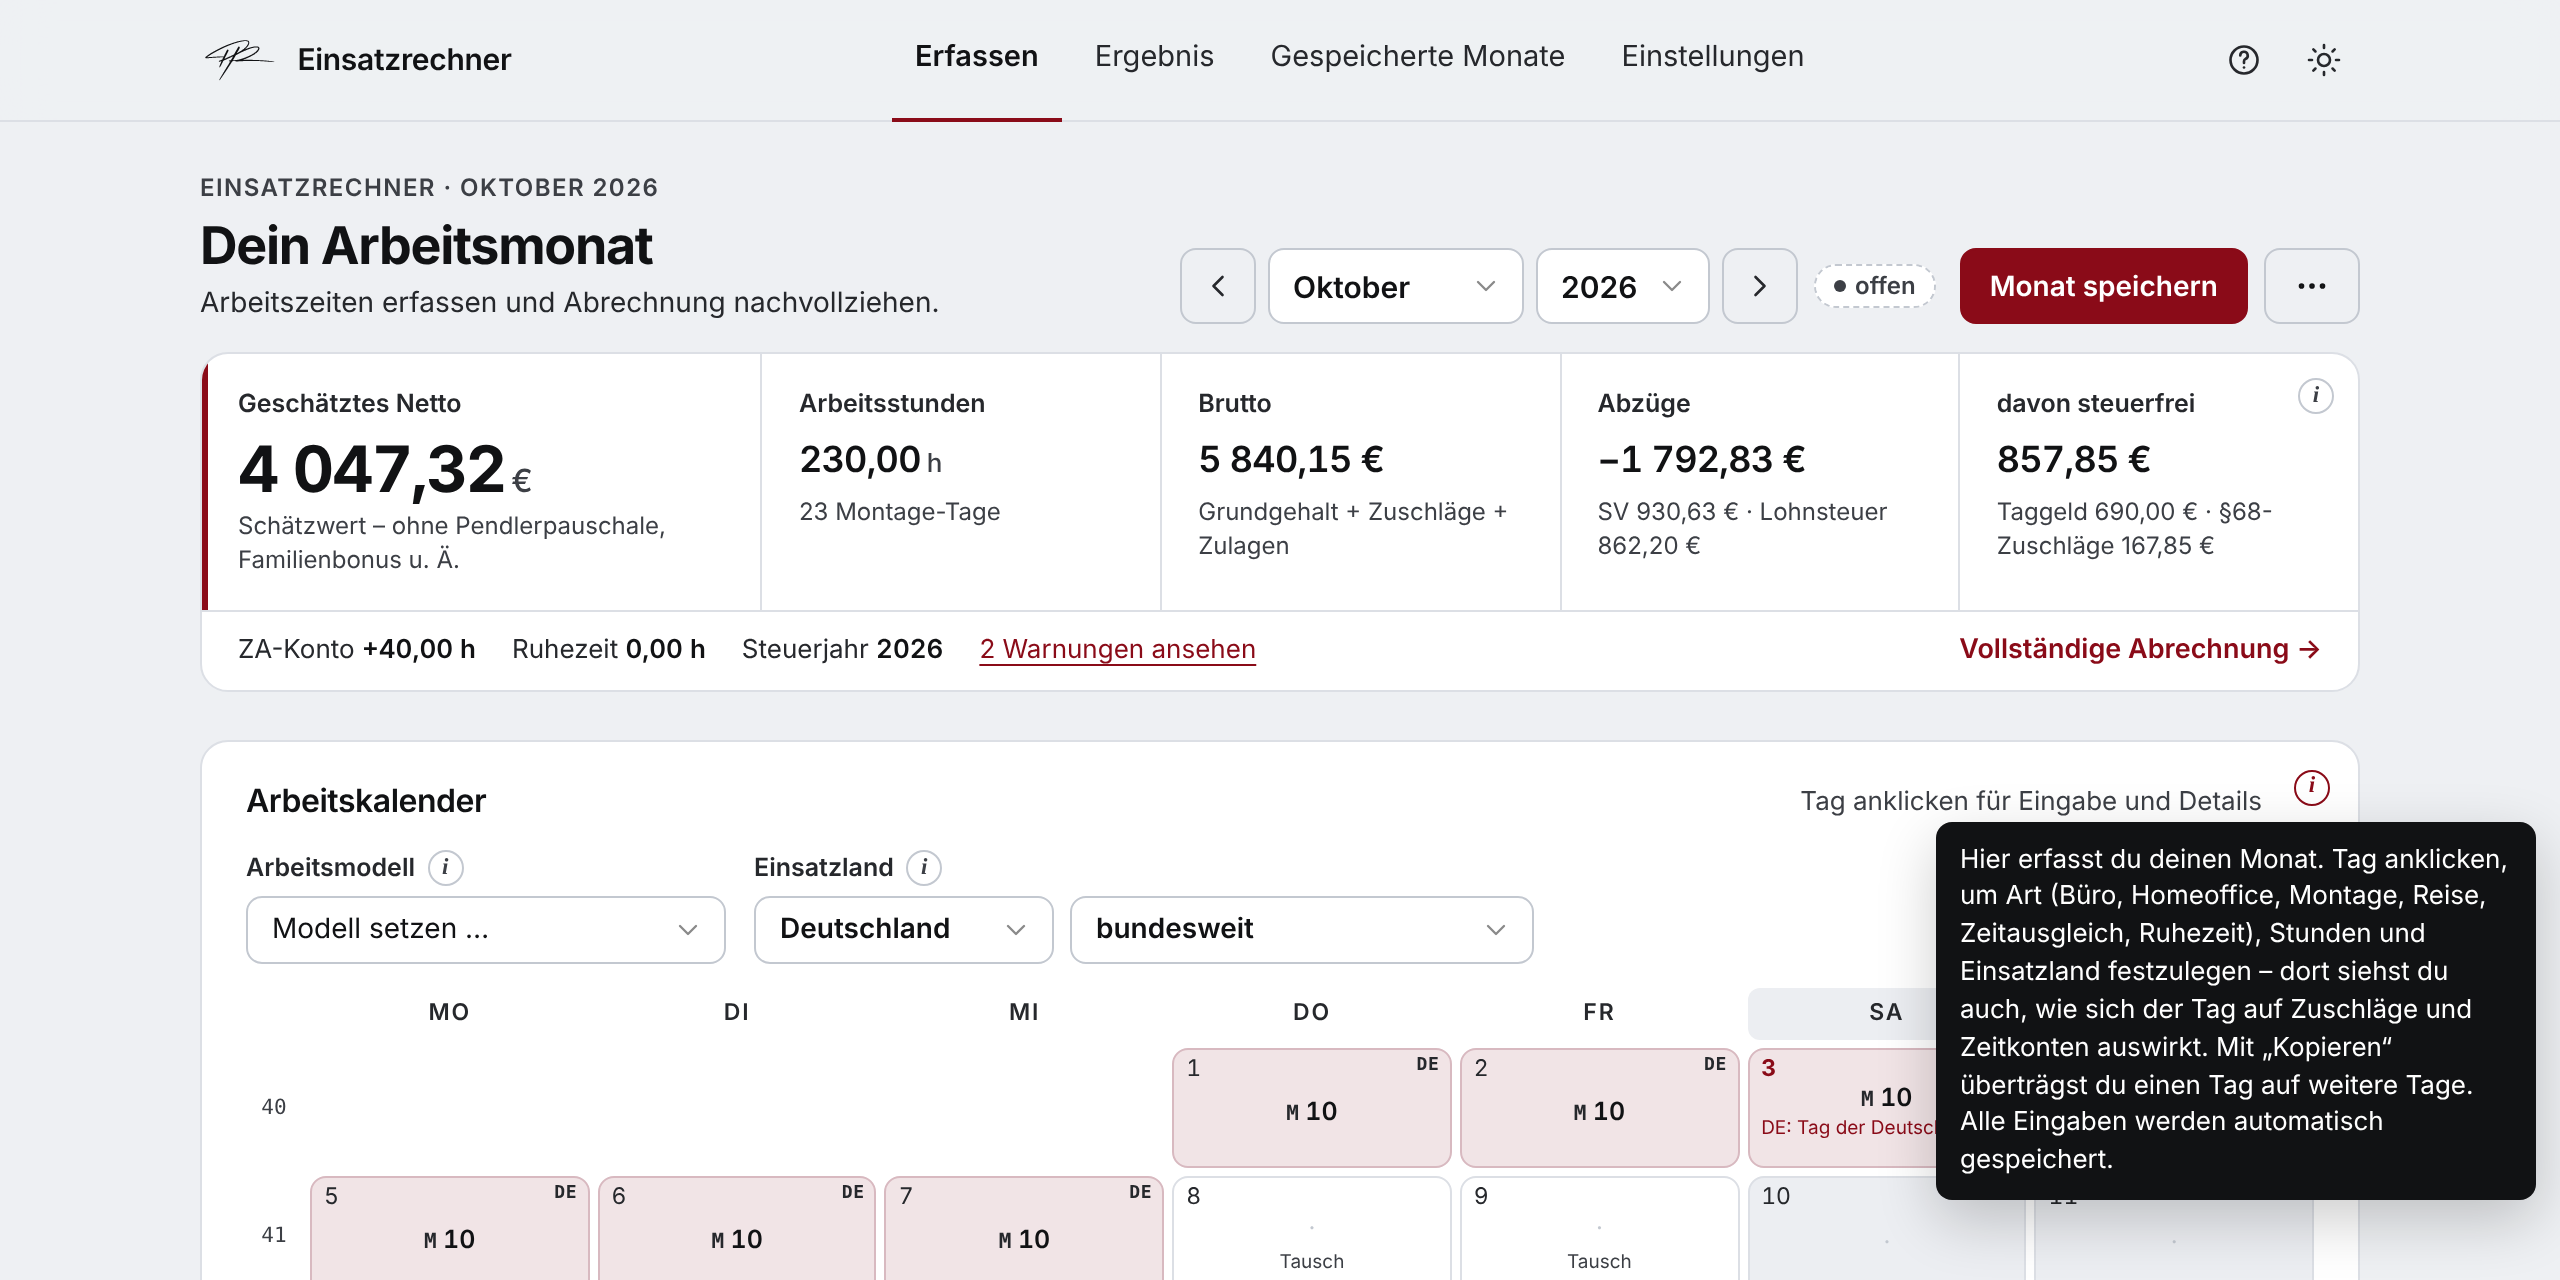
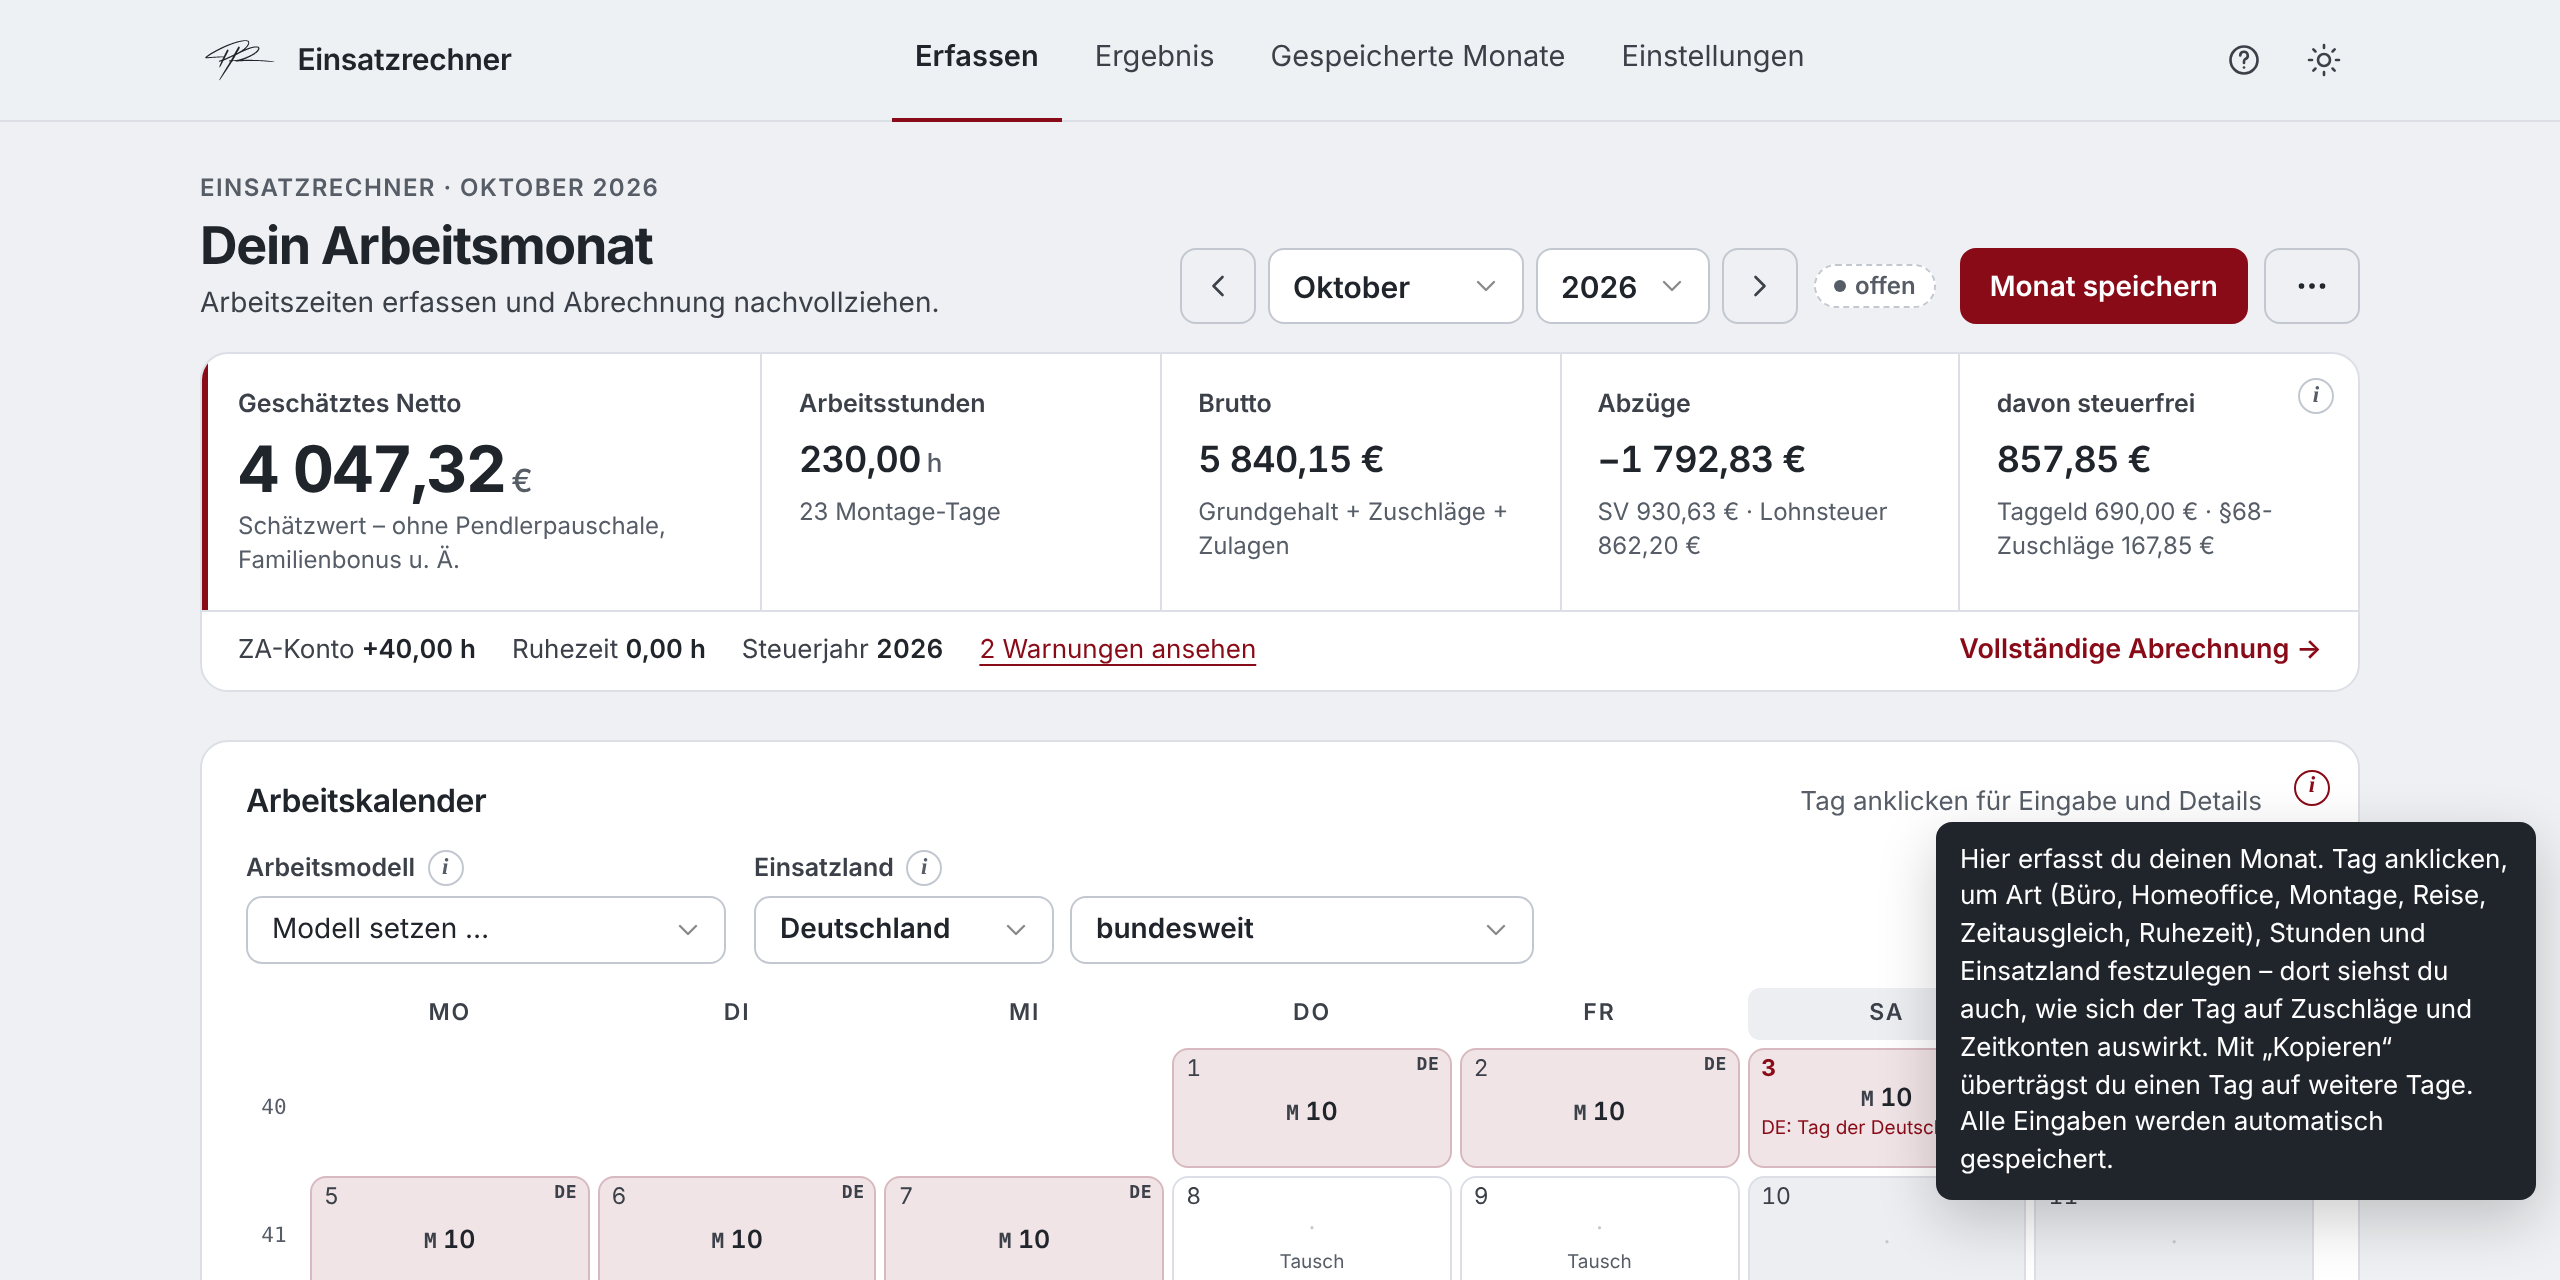
Dunkle Darstellung fast schwarz (2.3.3)
Hintergrund im dunklen Modus #0A0A0B, Flächen und Linien dunkler.
Schrift der hellen Darstellung wieder wie in 2.3.1.
README: Screenshot der dunklen Darstellung.

diff --git a/index.html b/index.html
@@ -23,9 +23,9 @@
 :root{
[1 lines of base64/hex data omitted]
   --pr-bg:#eef0f3;--pr-surface:#ffffff;--pr-surface-2:#eceef2;--pr-border:#dcdfe5;--pr-border-strong:#c3c8d0;
-  --pr-text:#111214;--pr-text-2:#26282c;--pr-text-3:#3c3f45;
+  --pr-text:#20242b;--pr-text-2:#3b4049;--pr-text-3:#565d67;
   --pr-red:#8a0b18;--pr-red-hover:#6d0812;--pr-red-text:#8a0b18;--pr-red-soft:#f9ecee;--pr-red-ring:rgba(138,11,24,.16);
-  --pr-ink:#111214;--pr-ink-soft:#eceef1;--pr-ink-ring:rgba(17,18,20,.14);--pr-on-ink:#ffffff;
+  --pr-ink:#20242b;--pr-ink-soft:#eef0f3;--pr-ink-ring:rgba(32,36,43,.14);--pr-on-ink:#ffffff;
   --pr-code-bg:#f1f2f5;--pr-on-accent:#ffffff;
   --pr-shadow:none;
   --pr-font:ui-sans-serif,system-ui,-apple-system,'Segoe UI',Roboto,'Helvetica Neue',Arial,sans-serif;
@@ -35,15 +35,15 @@
   color-scheme:light;
 }
 @media (prefers-color-scheme:dark){:root:not([data-theme='light']){
-  --pr-bg:#16181c;--pr-surface:#1d2025;--pr-surface-2:#23272d;--pr-border:#2d3239;--pr-border-strong:#3c424b;
+  --pr-bg:#0a0a0b;--pr-surface:#121314;--pr-surface-2:#18191b;--pr-border:#25272a;--pr-border-strong:#36393d;
   --pr-text:#e7e9ec;--pr-text-2:#c1c6cd;--pr-text-3:#9aa1ab;
   --pr-red:#9a0e1b;--pr-red-hover:#b31220;--pr-red-text:#e0525c;--pr-red-soft:#2a1416;--pr-red-ring:rgba(199,35,47,.25);
-  --pr-ink:#e7e9ec;--pr-ink-soft:#252930;--pr-ink-ring:rgba(231,233,236,.16);--pr-on-ink:#16181c;--pr-code-bg:#23272d;--pr-shadow:none;color-scheme:dark;}}
+  --pr-ink:#e7e9ec;--pr-ink-soft:#1d1e21;--pr-ink-ring:rgba(231,233,236,.16);--pr-on-ink:#0a0a0b;--pr-code-bg:#18191b;--pr-shadow:none;color-scheme:dark;}}
 :root[data-theme='dark']{
-  --pr-bg:#16181c;--pr-surface:#1d2025;--pr-surface-2:#23272d;--pr-border:#2d3239;--pr-border-strong:#3c424b;
+  --pr-bg:#0a0a0b;--pr-surface:#121314;--pr-surface-2:#18191b;--pr-border:#25272a;--pr-border-strong:#36393d;
   --pr-text:#e7e9ec;--pr-text-2:#c1c6cd;--pr-text-3:#9aa1ab;
   --pr-red:#9a0e1b;--pr-red-hover:#b31220;--pr-red-text:#e0525c;--pr-red-soft:#2a1416;--pr-red-ring:rgba(199,35,47,.25);
-  --pr-ink:#e7e9ec;--pr-ink-soft:#252930;--pr-ink-ring:rgba(231,233,236,.16);--pr-on-ink:#16181c;--pr-code-bg:#23272d;--pr-shadow:none;color-scheme:dark;}
+  --pr-ink:#e7e9ec;--pr-ink-soft:#1d1e21;--pr-ink-ring:rgba(231,233,236,.16);--pr-on-ink:#0a0a0b;--pr-code-bg:#18191b;--pr-shadow:none;color-scheme:dark;}
 
 /* Tagesarten – gedämpfte Flächen, jeweils mit Kürzel im Tag (Farbe nie allein) */
 :root{
@@ -1669,7 +1669,7 @@ function rhythmusMonat(modell,start,monat,jahr,t,land,region){
 // ═══════════════════════════════════════════════════════════════════════════
 // App – Oberfläche, Speicherung, Navigation
 // ═══════════════════════════════════════════════════════════════════════════
-const APP_VERSION='2.3.2'
+const APP_VERSION='2.3.3'
 
 // Quelltext der Seite im Originalzustand (vor jeder JS-Änderung) — Basis zum Zurückschreiben der Einstellungen
 const SOURCE_HTML=(()=>{const c=document.documentElement.cloneNode(true);c.removeAttribute('data-theme');return'<!DOCTYPE html>\n'+c.outerHTML})()

diff --git a/README.md b/README.md
@@ -64,6 +64,9 @@ Der Rechner ist eine einzige HTML-Datei: ohne Installation, ohne Server, ohne Ko
 <td><b>Info-Symbol</b> – jede Funktion erklärt sich per Klick auf „i“<br><br><img alt="Erklärung zum Arbeitskalender über das Info-Symbol" src="docs/info.png"></td>
 <td><b>Am Handy</b> – Ergebnis oben, Kalender und Zeitkonten untereinander<br><br><img alt="Einsatzrechner am Handy" src="docs/handy.png"></td>
 </tr>
+<tr>
+<td colspan="2"><b>Dunkle Darstellung</b> – fast schwarzer Hintergrund, umschaltbar über das Sonnen-/Mond-Symbol oben rechts<br><br><img alt="Einsatzrechner in dunkler Darstellung" src="docs/dunkel.png"></td>
+</tr>
 </table>
 
 <sub>Alle Screenshots zeigen Beispieldaten.</sub>

diff --git a/CHANGELOG.md b/CHANGELOG.md
@@ -2,6 +2,13 @@
 
 Alle wichtigen Änderungen an diesem Projekt. Format nach [Keep a Changelog](https://keepachangelog.com/de/1.1.0/), Versionierung nach [Semantic Versioning](https://semver.org/lang/de/).
 
+## [2.3.3] – 2026-10-21
+
+### Geändert
+- Dunkle Darstellung: Hintergrund fast schwarz (#0A0A0B), Flächen und Linien entsprechend dunkler
+- Schrift in der hellen Darstellung wieder wie in 2.3.1
+- README: Screenshot der dunklen Darstellung ergänzt
+
 ## [2.3.2] – 2026-10-21
 
 ### Geändert

diff --git a/ueberblick.md b/ueberblick.md
@@ -1,6 +1,6 @@
 # Einsatzrechner – Funktionsüberblick
 
-Stand: Version 2.3.2 · Live: <https://paul-rafael.github.io/einsatzrechner/>
+Stand: Version 2.3.3 · Live: <https://paul-rafael.github.io/einsatzrechner/>
 
 Einsätze erfassen, Lohn nachrechnen, Lohnzettel prüfen – nach österreichischem Recht, vollständig im Browser, ohne Konto und ohne Server.
 
